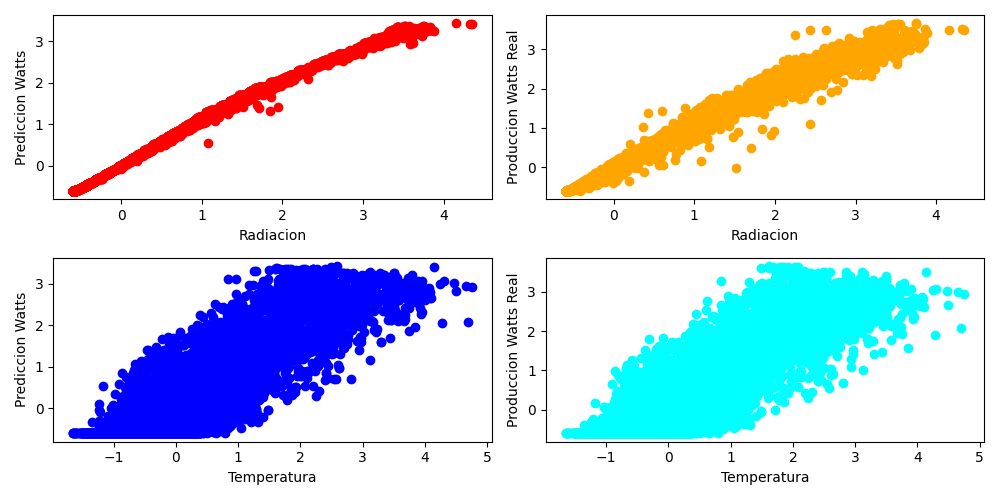
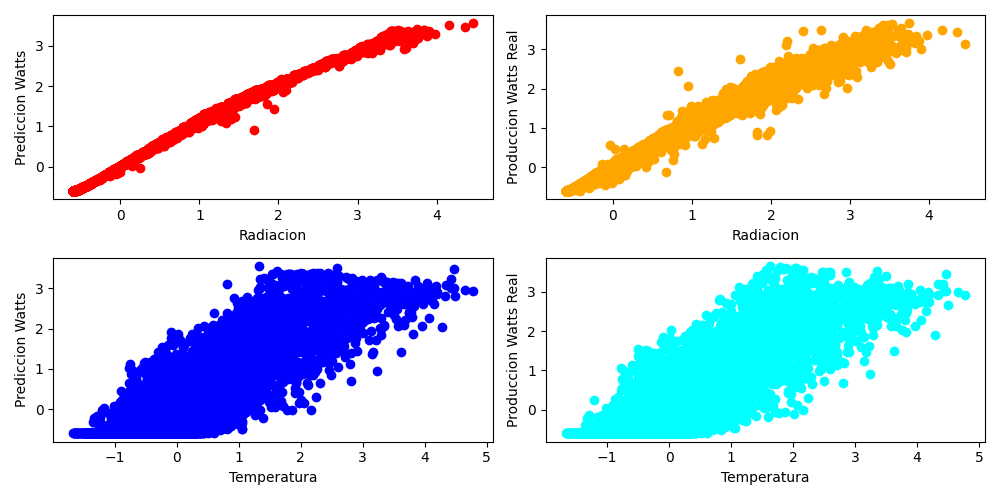
gyutg

diff --git a/src/main14.py b/src/main14.py
@@ -149,18 +149,37 @@ def adestrarMetodo(datafile, metodo, nome, depVars, indepVars):
     joblib.dump(model, output_path)
 
 
+def graficarRelacionVariables(path):
+    df = pd.read_csv(path)
+    print("Max: " + str(df[['radiation']].max()))
+    X_radiation = df[['radiation']].to_numpy()
+    X_temperature = df[['temperature']].to_numpy()
+    Y_potencia = df[['W']].to_numpy()
+
+    fig, (ax1, ax2) = plt.subplots(1, 2, figsize=(10, 5))
+    ax1.scatter(X_radiation, Y_potencia.flatten(), label="Prediction", color='red')
+    ax1.set_xlabel('Radiacion'); ax1.set_ylabel('Produccion')
+    ax1.set_title('Produccion Solar')
+
+    ax2.scatter(X_temperature, Y_potencia.flatten(), label="Real", color='blue')
+    ax2.set_xlabel('Temperatura'); ax2.set_ylabel('Produccion')
+    ax2.set_title('Produccion Solar')
+    plt.tight_layout()
+    plt.show()
+
+
 if __name__ == "__main__":
 
     # 1: Estudo do conxunto de datos
 
-    #graficarRelacionVariables()
+    graficarRelacionVariables(Config.path)
 
 
     # 2: Tecnicas de deteccion de anomalias
 
     #isolationForest(Config.path)
     #kmeans(Config.path, Config.n_clusters)
-    autoEncoder(Config.path)
+    #autoEncoder(Config.path)
     
 
     # 3: Modelos de regresion
@@ -171,7 +190,8 @@ if __name__ == "__main__":
     methods = []
     methods.append(("linealRegression", make_pipeline(StandardScaler(), LinearRegression())))
 
-    """    methods.append(("polynomialMethod", make_pipeline(
+    """
+    methods.append(("polynomialMethod", make_pipeline(
         PolynomialFeatures(2, include_bias=False),
         StandardScaler(),
         LinearRegression(),

diff --git a/src/prueba_multi/multiprocess.py b/src/prueba_multi/multiprocess.py
@@ -33,6 +33,7 @@ def adestrarMetodo(datafile, metodo, nome, depVars, indepVars):
     output_path.parent.mkdir(parents=True, exist_ok=True)
     joblib.dump(model, output_path)
 
+"""
 def multi_process_regression():
     with ProcessingPool() as pool:
         # Añadir las funciones al pool para su ejecución asíncrona
@@ -46,7 +47,8 @@ def multi_process_regression():
         resultado2.get()
         resultado3.get()
         resultado4.get()
-
+"""
+        
 def single_process_regression():
     adestrarMetodo(Config.path, Config.mr['lr_pipe'], Config.mr['lr'], Config.depVars, Config.indepVars)
     adestrarMetodo(Config.path, Config.mr['poly_pipe'], Config.mr['poly'], Config.depVars, Config.indepVars)
@@ -56,8 +58,8 @@ def single_process_regression():
 if __name__ == "__main__":
 
     # Medir el tiempo de ejecución para cada método
-    time_single = timeit("single_process_regression()", globals=globals(), number=1)
-    print(f"Tiempo de ejecución secuencial: {time_single/60:.2f} min")
+    #time_single = timeit("single_process_regression()", globals=globals(), number=1)
+    #print(f"Tiempo de ejecución secuencial: {time_single/60:.2f} min")
 
     time_multi = timeit("multi_process_regression()", globals=globals(), number=1)
     print(f"Tiempo de ejecución con multiprocesos: {time_multi/60:.2f} min")
